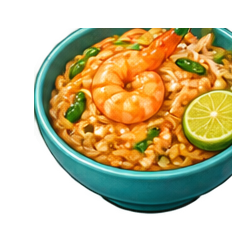
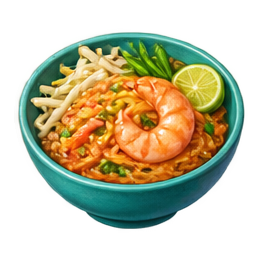
Country food: same size and centred on the plate for every dish
The art asset now stores the area the food covers in each image, and each
dish is sized to the same food width (tall drinks limited in height) and
centred on its plate. Mango sticky rice and pad thai are re-cut from
sheet 2, where neither is clipped.

diff --git a/Assets/Project Data/Game/Scripts/Level/CountryFood/CountryFoodVisual.cs b/Assets/Project Data/Game/Scripts/Level/CountryFood/CountryFoodVisual.cs
@@ -24,7 +24,6 @@ namespace Watermelon.BusStop
         private const float DefaultFootprint = 0.8f;
 
         // Dish and plate layout on the card (the card is one unit wide).
-        private const float DishScaleOnPlate = 0.9f;
         // Where the bottom of the food sits: in the middle of the plate, or (plates switched
         // off in CountryFoodArt) just above the shadow.
         private const float DishBottomOnPlate = -0.326f;
@@ -55,7 +54,7 @@ namespace Watermelon.BusStop
         private float worldSize = 1f;
         private bool active;
         private Color plateColour;
-        private float dishBottom = CountryFoodArt.DefaultDishBottom;
+        private Vector4 dishRect = CountryFoodArt.DefaultDishRect;
 
         public void Apply(BaseCharacterBehavior owner, Transform graphicsRoot, GameObject coverObject, Sprite dish, Color typeColour)
         {
@@ -78,7 +77,7 @@ namespace Watermelon.BusStop
             CountryFoodArt art = CountryFood.Art;
 
             plateColour = typeColour;
-            dishBottom = art != null ? art.GetDishBottom(dish) : CountryFoodArt.DefaultDishBottom;
+            dishRect = art != null ? art.GetDishRect(dish) : CountryFoodArt.DefaultDishRect;
             dishRenderer.sprite = dish;
             ApplyPlateLayout();
 
@@ -103,13 +102,23 @@ namespace Watermelon.BusStop
                 FitToUnit(plateRenderer, new Vector3(plateWidth, plateWidth, 1f));
             }
 
-            // Stand the food itself (not the image's empty margin) in the middle of the plate.
-            float dishScale = showPlate ? DishScaleOnPlate : 1f;
-            FitToUnit(dishRenderer, Vector3.one * dishScale);
+            // Size and place the food itself (not the image's empty margins): every dish gets the
+            // same width, tall drinks are limited in height, and the food stands centred in the
+            // middle of the plate.
+            float foodWidth = art != null ? art.foodWidth : 0.8f;
+            float foodMaxHeight = art != null ? art.foodMaxHeight : 0.82f;
             Vector3 spriteSize = dishRenderer.sprite != null ? dishRenderer.sprite.bounds.size : Vector3.one;
-            float heightInCard = dishScale * spriteSize.y / Mathf.Max(0.0001f, spriteSize.x);
+            float aspect = spriteSize.y / Mathf.Max(0.0001f, spriteSize.x);
+            float rectWidth = Mathf.Max(0.05f, dishRect.z - dishRect.x);
+            float rectHeight = Mathf.Max(0.05f, (dishRect.w - dishRect.y) * aspect);
+
+            float dishScale = Mathf.Min(foodWidth / rectWidth, foodMaxHeight / rectHeight);
+            FitToUnit(dishRenderer, Vector3.one * dishScale);
+
             float bottomTarget = showPlate ? DishBottomOnPlate : DishBottomWithoutPlate;
-            dishRenderer.transform.localPosition = new Vector3(0f, bottomTarget - heightInCard * (dishBottom - 0.5f), 0f);
+            float x = -dishScale * ((dishRect.x + dishRect.z) * 0.5f - 0.5f);
+            float y = bottomTarget - dishScale * aspect * (dishRect.y - 0.5f);
+            dishRenderer.transform.localPosition = new Vector3(x, y, 0f);
 
             shadowRenderer.transform.localPosition = showPlate ? PlateShadowPosition : DishShadowPosition;
             FitToUnit(shadowRenderer, showPlate ? PlateShadowScale : DishShadowScale);

diff --git a/Assets/Project Data/Game/Scripts/Level/CountryFood/CountryFoodArt.cs b/Assets/Project Data/Game/Scripts/Level/CountryFood/CountryFoodArt.cs
@@ -16,9 +16,10 @@ namespace Watermelon.BusStop
 
         public Sprite[] dishes = new Sprite[35];
 
-        [Tooltip("Per dish, same order as Dishes: how far above the image's bottom edge the food starts " +
-                 "(0..1 of the image height). Used to stand every dish in the middle of its plate.")]
-        public float[] dishBottoms = new float[35];
+        [Tooltip("Per dish, same order as Dishes: the area the food covers in its image, as fractions of " +
+                 "the image (x = left, y = bottom, z = right, w = top). Every dish is sized and centred from " +
+                 "this, so the empty margins of the images do not matter.")]
+        public Vector4[] dishRects = new Vector4[35];
 
         [Header("Board look")]
         [Tooltip("Dish size relative to the tile footprint (the character tap collider).")]
@@ -30,21 +31,25 @@ namespace Watermelon.BusStop
         public bool showColourPlate = true;
         [Tooltip("Plate width relative to the dish card.")]
         [Range(0.6f, 1.2f)] public float plateWidth = 0.96f;
+        [Tooltip("Width of the food on its plate, relative to the dish card.")]
+        [Range(0.5f, 1.1f)] public float foodWidth = 0.8f;
+        [Tooltip("Tallest the food may be (tall drinks), relative to the dish card.")]
+        [Range(0.5f, 1.1f)] public float foodMaxHeight = 0.82f;
 
-        /// <summary>Empty space under the food in this dish image, as a fraction of its height.</summary>
-        public float GetDishBottom(Sprite dish)
+        /// <summary>Area the food covers in this dish image (see <see cref="dishRects"/>).</summary>
+        public Vector4 GetDishRect(Sprite dish)
         {
-            if (dish != null && dishes != null && dishBottoms != null)
+            if (dish != null && dishes != null && dishRects != null)
             {
                 int index = System.Array.IndexOf(dishes, dish);
-                if (index >= 0 && index < dishBottoms.Length)
-                    return dishBottoms[index];
+                if (index >= 0 && index < dishRects.Length && dishRects[index].z > dishRects[index].x)
+                    return dishRects[index];
             }
 
-            return DefaultDishBottom;
+            return DefaultDishRect;
         }
 
-        public const float DefaultDishBottom = 0.14f;
+        public static readonly Vector4 DefaultDishRect = new Vector4(0.07f, 0.14f, 0.93f, 0.86f);
 
         public Sprite GetDish(int country, int colourIndex)
         {
